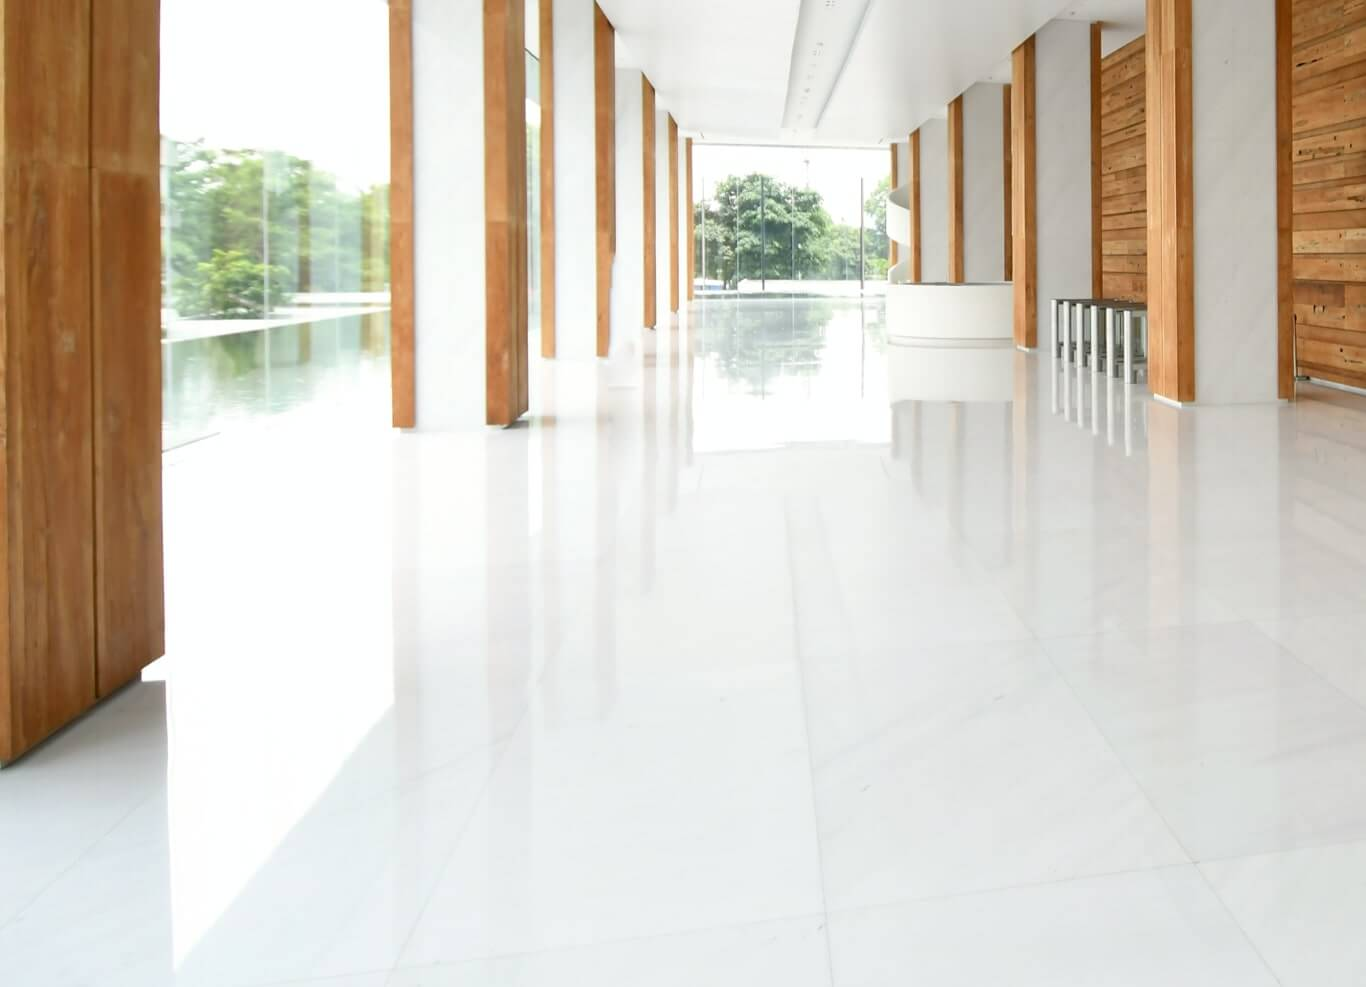
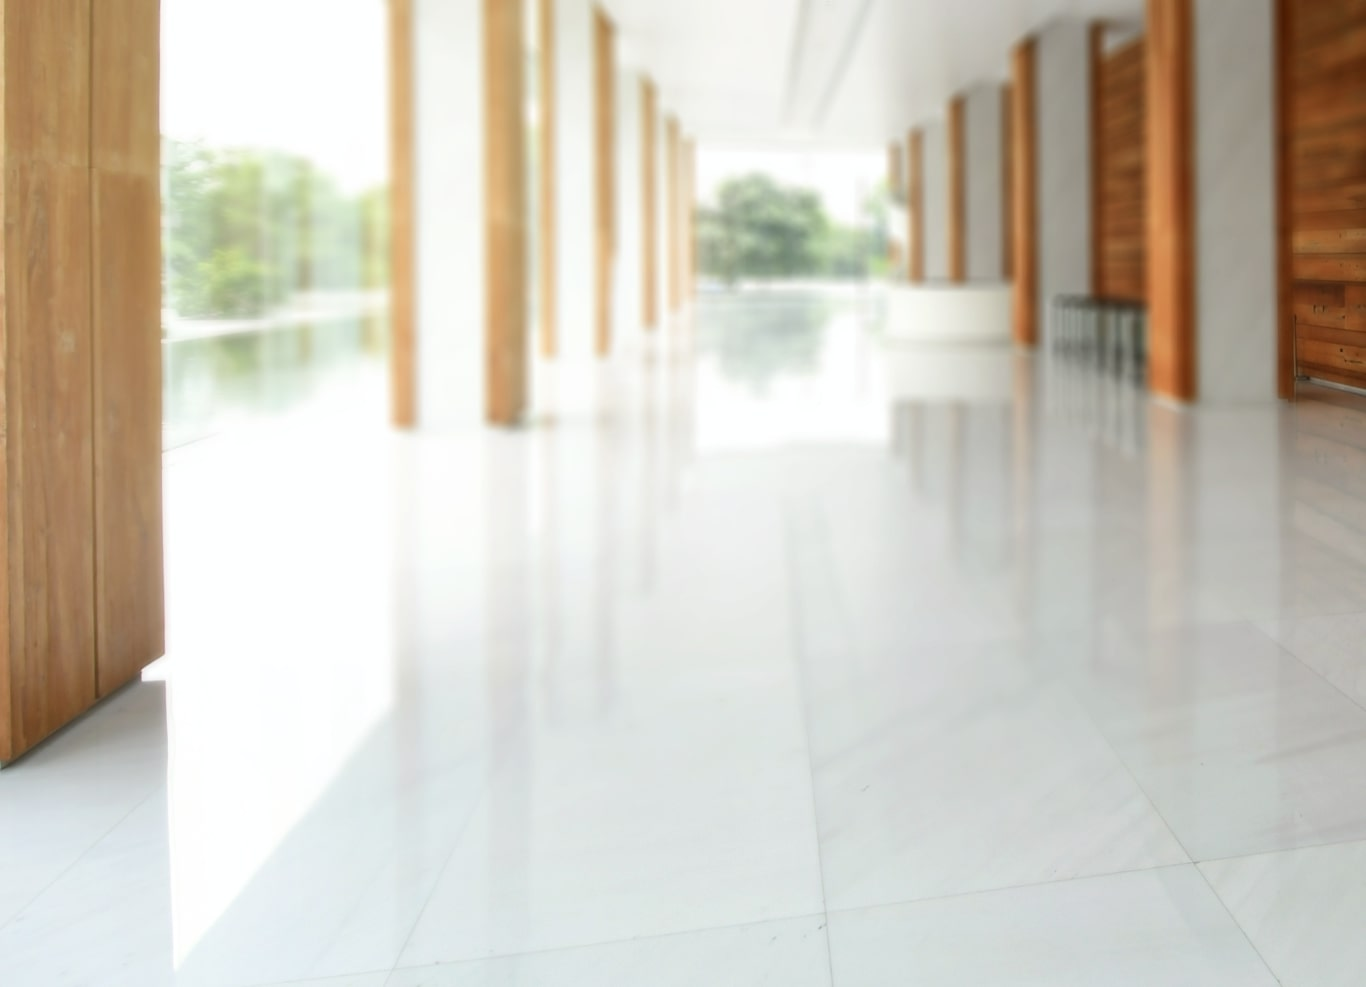
update background tim ahli, and header

diff --git a/css/style-pm.css b/css/style-pm.css
@@ -193,6 +193,12 @@ body {
 }
 /* end common */
 
+/* position */
+.position--relative{
+  position: relative;
+}
+/* end position */
+
 /* row */
 .row.row--flex {
   display: flex;
@@ -283,7 +289,8 @@ input.form-control.h--50px {
 /* expert team */
 .pm-expert-team{
   background: url(../img/pm/bg-tim-ahli.jpg) center/cover no-repeat;
-  padding: 2em 0;
+  position: relative;
+  overflow: hidden;
 }
 
 .expert-team-box{
@@ -303,6 +310,12 @@ input.form-control.h--50px {
   position: absolute;
   left: 0;
   top: -25px;
+}
+
+.consultant-lead-wrapper{
+  position: absolute;
+  bottom: 0;
+  right: -30px;
 }
 /* end expert team */
 
@@ -375,9 +388,24 @@ input.form-control.h--50px {
     margin-bottom: 20px;
   }
 
+  .consultant-lead-wrapper{
+    display: none;
+  }
   .expert-team-wrapper [class*='col-']:first-child{
     order: 1;
   }
 }
 
+@media screen and (max-width: 768px){
+  .pm-header .header-top{
+    height: 145px;
+  }
+  .pm-wrapper .pm-header {
+    background-position: -175px 0px;
+    background-size: auto 100%;
+  }
+  .pm-wrapper .pm-header .header__title {
+    margin-top: 150px;
+  }
+}
 /* end responsive */

diff --git a/project-management.php b/project-management.php
@@ -56,7 +56,7 @@ if(isset($_POST['submitted']))
     <link href="/css/bootstrap.min.css" rel="stylesheet">
     <link href="/css/sidebar-update.css" rel="stylesheet">
     <link href="/css/newstyle.css" rel="stylesheet">
-    <link href="/css/style-pm.css?v=1.0.2" rel="stylesheet">
+    <link href="/css/style-pm.css?v=1.0.3" rel="stylesheet">
     <link rel="canonical" href="https://www.logique.co.id/layanan/pembuatan-progressive-web-app.php" />
     <link href="https://fonts.googleapis.com/css2?family=Montserrat:wght@300;400;500;600&display=swap" rel="stylesheet">
     <?php if ($_SERVER['HTTP_HOST'] === 'www.logique.co.id') { ?>
@@ -235,7 +235,7 @@ if(isset($_POST['submitted']))
     </section>
 
     <section class="mb--60px pm-expert-team">
-        <div class="content-wrapper__">
+        <div class="content-wrapper__ py--60px">
             <div class="container__">
                 <div class="row row--flex expert-team-wrapper">
                     <div class="col-xs-12 col-md-6">
@@ -250,13 +250,13 @@ if(isset($_POST['submitted']))
                             </p>
                         </div>
                     </div>
-                    <div class="col-xs-12 col-md-6 d-flex align-items-end justify-content-center">
-                        <div class="consultant-lead-wrapper">
-                            <img src="/img/pm/consultant-lead-meiriando.png" class="img-responsive mx--auto" alt="Meiriando Teja">
-                        </div>
-                    </div>
+                    <div class="col-xs-12 col-md-6 d-flex align-items-end justify-content-center"></div>
                 </div>
             </div>
+            
+        </div>
+        <div class="consultant-lead-wrapper">
+            <img src="/img/pm/consultant-lead-meiriando.png" class="img-responsive mx--auto" alt="Meiriando Teja">
         </div>
     </section>
 
@@ -325,9 +325,9 @@ if(isset($_POST['submitted']))
                         <p>3. Daily Scrum</p>
                         <p>Daily scrum merupakan event harian yang dilakukan oleh Tim dan scrum master untuk update pekerjaan dari Tim masing-masing. Untuk menjaga ke efektifan dalam proses daily scrum, event ini di timeboxing dalam 15 - 30 menit tergantung dengan kebutuhan di dalam tim sendiri. Setiap member yang ikut dalam daily scrum akan memiliki giliran untuk menjelaskan 3 hal utama dalam daily scrum seperti berikut : </p>
                         <div class="ceremonies-box-wrapper">
-                            <span class="ceremonies-box">Pekerjaan yang dilakukan kemarin</span>
-                            <span class="ceremonies-box">Pekerjaan yang akan dilakukan hari ini</span>
-                            <span class="ceremonies-box">Blocker atau hambatan yang mempengaruhi pekerjaan Tim hari itu</span>
+                            <span class="ceremonies-box">Pekerjaan yang dilakukan kemarin.</span>
+                            <span class="ceremonies-box">Pekerjaan yang akan dilakukan hari ini.</span>
+                            <span class="ceremonies-box">Blocker atau hambatan yang mempengaruhi pekerjaan Tim hari itu.</span>
                         </div>
                     </div>
                 </div>
@@ -358,9 +358,9 @@ if(isset($_POST['submitted']))
                         <p>5. Sprint Retrospective</p>
                         <p>Sprint retrospective merupakan event yg dilakukan di akhir sprint untuk me review kembali proses selama 1 sprint dan memutuskan action item yg akan dilakukan di sprint depan untuk proses sprint yang lebih baik. Sprint retrospective sendiri akan mendiskusikan 3 hal yaitu: </p>
                         <div class="ceremonies-box-wrapper">
-                            <span class="ceremonies-box">Apa yang kurang berjalan baik selama sprint</span>
-                            <span class="ceremonies-box">Apa yang sudah berjalan baik selama sprint</span>
-                            <span class="ceremonies-box">Apa yang masih membingungkan didalam sprint</span>
+                            <span class="ceremonies-box">Apa yang kurang berjalan baik selama sprint.</span>
+                            <span class="ceremonies-box">Apa yang sudah berjalan baik selama sprint.</span>
+                            <span class="ceremonies-box">Apa yang masih membingungkan didalam sprint.</span>
                         </div>
                         <p>Dari 3 hal diskusi tersebut akan di lanjutkan action item yang perlu dilakukan di sprint depan mengcover 3 hal tersebut.</p>
                     </div>
